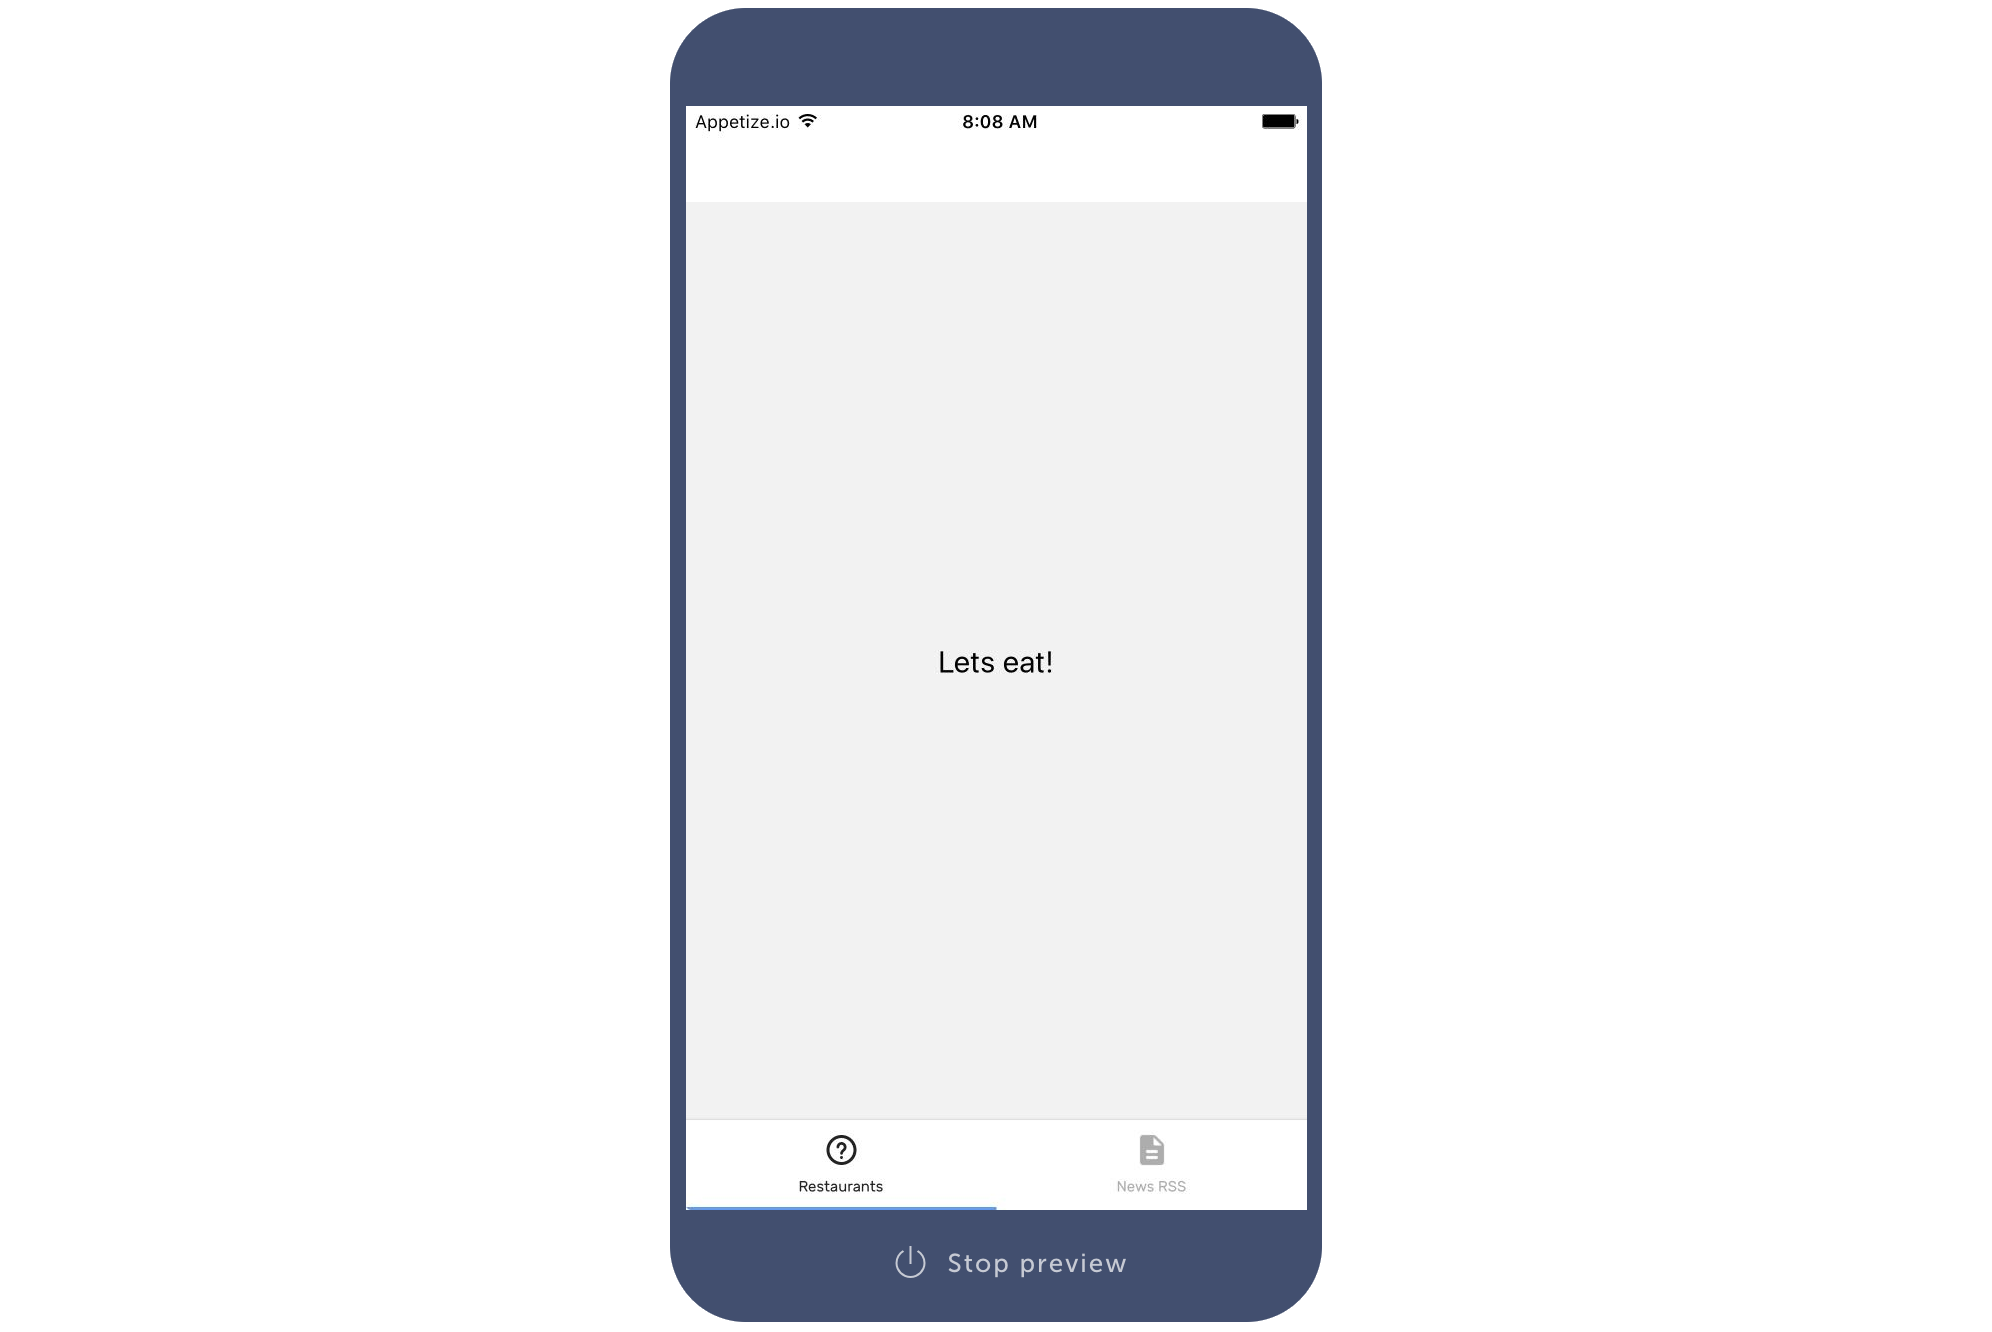
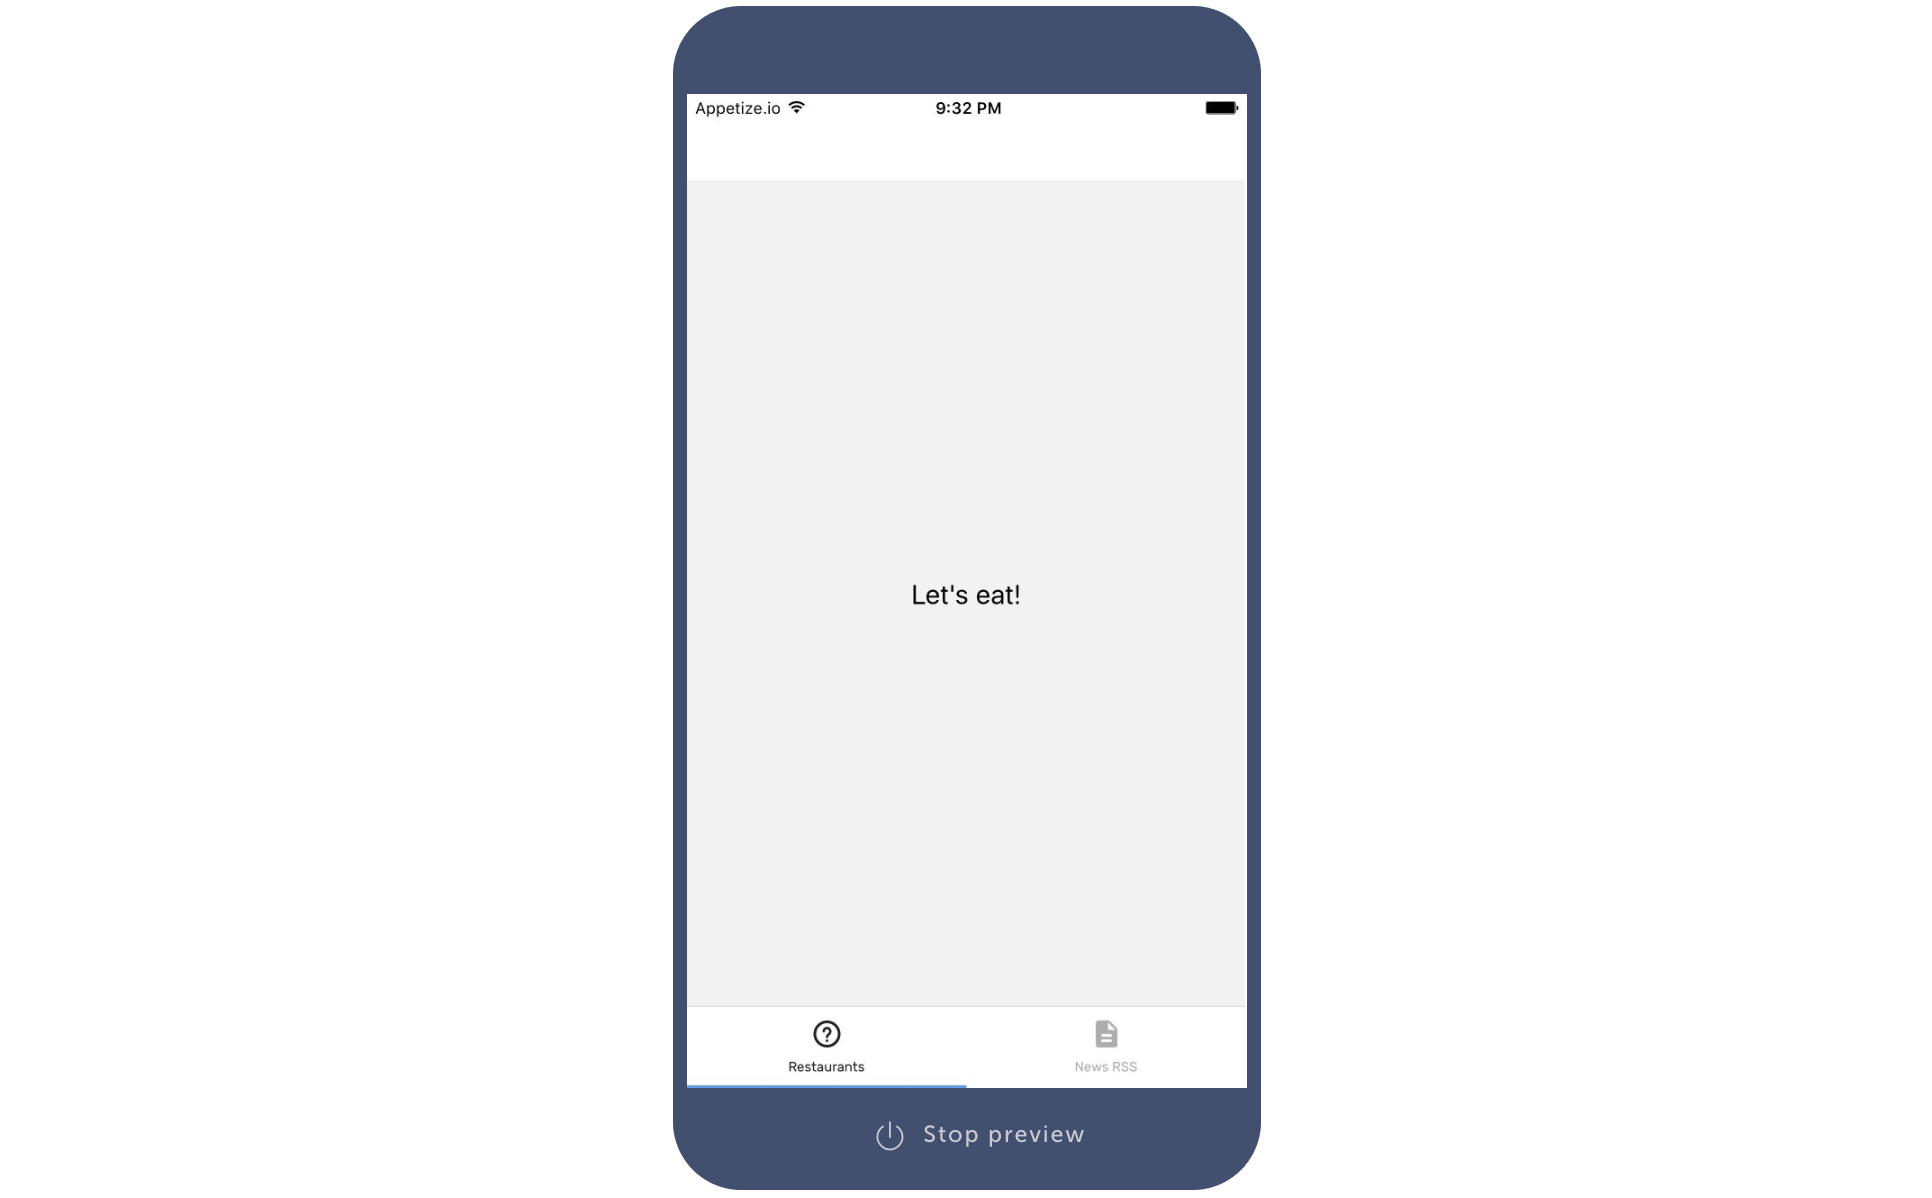
Fixed 'lets' errors. Updated screenshot.

diff --git a/docs/extensions/tutorials/_posts/1970-01-01-GettingStarted.md b/docs/extensions/tutorials/_posts/1970-01-01-GettingStarted.md
@@ -37,9 +37,9 @@ Before going through this tutorial, make sure you've installed the following:
 > #### Note
 > If the `npm install` commands fail because of _permission_ issues, you need to run them with `sudo`: `sudo npm install -g <package-name>`.
 
-If you haven't already, go to the [Builder]({{ site.shoutem.builderURL }}) and create an account. Once signed in, create a new `Blank app`. For this quick tutorial, we'll make a Restaurants and Food app, lets call it `Restaurants`. To rename your app, click on the `Blank app` text, delete it and type in `Restaurants`.
+If you haven't already, go to the [Builder]({{ site.shoutem.builderURL }}) and create an account. Once signed in, create a new `Blank app`. For this quick tutorial, we'll make a Restaurants and Food app, let's call it `Restaurants`. To rename your app, click on the `Blank app` text, delete it and type in `Restaurants`.
 
-Lets say we want to add an RSS feed screen to our app. To do that, click on the + button next to Screens and select the News RSS extension. Since the app is about Restaurants, to stick to the Food theme, lets use a food related News RSS feed:
+Let's say we want to add an RSS feed screen to our app. To do that, click on the + button next to Screens and select the News RSS extension. Since the app is about Restaurants, to stick to the Food theme, let's use a food related News RSS feed:
 http://foodengineeringmag.com/rss/topic/2639-top-100-food-beverage-companies
 
 After you add this screen, it should look something like this:
@@ -92,7 +92,7 @@ Initializing extension:
 Extension initialized!
 ```
 
-The `shoutem init` command bootstrapped the `{{ site.example.devName }}.restaurants` folder with extension files. Lets locate to the extension folder and add a screen with a shortcut (a pointer to the starting screen of an extension):
+The `shoutem init` command bootstrapped the `{{ site.example.devName }}.restaurants` folder with extension files. Let's locate to the extension folder and add a screen with a shortcut (a pointer to the starting screen of an extension):
 
 
 ```ShellSession
@@ -110,7 +110,7 @@ File `extension.json` was modified.
 
 This created a `List` screen in `app/screens/List.js` file. The reason we named it List is because in the [My First Extension]({{ site.url }}/docs/extensions/my-first-extension/introduction) tutorial series we'll turn this screen into a list of restaurants, but for now, a simpler screen will do. Any time you create a new screen it'll be a simple Hello World screen.
 
-To fit the app, lets change the `app/screens/List.js` file so it says `Lets eat!` instead of `Hello World!`:
+To fit the app, let's change the `app/screens/List.js` file so it says `Let's eat!` instead of `Hello World!`:
 
 ```JavaScript{5}
 #file: app/screens/List.js
@@ -118,7 +118,7 @@ export default class List extends Component {
   render() {
     return (
       <View style={styles.container}>
-        <Text style={styles.text}>Lets eat!</Text>
+        <Text style={styles.text}>Let's eat!</Text>
       </View>
     );
   }

diff --git a/docs/extensions/my-first-extension/_posts/1970-01-03-InitializingExtension.md b/docs/extensions/my-first-extension/_posts/1970-01-03-InitializingExtension.md
@@ -89,7 +89,7 @@ Extension installed.
 See it in the builder: {{ site.shoutem.builderURL }}/app/{{ site.example.appId }}
 ```
 
-Uploading the extension is self-explanatory, but lets elaborate on installing and uninstalling extensions. In the Builder, you can go to the `Extensions` tab to see which extensions are installed in your app. If you successfully installed your Restaurants extension from Getting Started, you should see it there under the `Custom` category.
+Uploading the extension is self-explanatory, but let's elaborate on installing and uninstalling extensions. In the Builder, you can go to the `Extensions` tab to see which extensions are installed in your app. If you successfully installed your Restaurants extension from Getting Started, you should see it there under the `Custom` category.
 
 <p class="image">
 <img src='{{ site.url }}/img/my-first-extension/extension-tab-extension.png'/>
@@ -97,4 +97,4 @@ Uploading the extension is self-explanatory, but lets elaborate on installing an
 
 Extensions are installed into specific apps, not all apps on your account. When running `shoutem install` inside a cloned app, the extension will be installed into that app, otherwise you will be prompted to select your app from a list.
 
-Now lets elaborate on [screens and shortcuts]({{ site.url }}/docs/extensions/my-first-extension/shortcut-and-screen).
+Now let's elaborate on [screens and shortcuts]({{ site.url }}/docs/extensions/my-first-extension/shortcut-and-screen).

diff --git a/docs/extensions/tutorials/_posts/1970-01-08-ModifiyingExtensions.md b/docs/extensions/tutorials/_posts/1970-01-08-ModifiyingExtensions.md
@@ -30,7 +30,7 @@ This is what it should look like (images and text vary with RSS feed):
 <img src='{{ site.url }}/img/tutorials/modifying-extensions/provided-layouts.png'/>
 </p>
 
-You do want list layout, but with large images in `Tiles`, such as the ones provided in the [UI toolkit]({{ site.url }}/docs/ui-toolkit/components/tiles). So lets modify News RSS extension directly to get those large images.
+You do want list layout, but with large images in `Tiles`, such as the ones provided in the [UI toolkit]({{ site.url }}/docs/ui-toolkit/components/tiles). So let's modify News RSS extension directly to get those large images.
 
 Download the [News RSS extension](https://github.com/shoutem/extensions/tree/master/shoutem-rss-news) from the repository and navigate to the extension's folder:
 
@@ -250,7 +250,7 @@ As the `app` folder from extension is what will be bundled in the app, you could
 
 We've implemented the new `render` function and deleted everything we didn't need to override from the `ListArticleView` component.
 
-Now, lets override the `renderRow` method in the screen:
+Now, let's override the `renderRow` method in the screen:
 
 ```javascript
 #file: app/screens/List.js

diff --git a/docs/extensions/tutorials/_posts/1970-01-02-WritingATheme.md b/docs/extensions/tutorials/_posts/1970-01-02-WritingATheme.md
@@ -126,7 +126,7 @@ Uploading `Restaurants` extension to Shoutem...
 Success!
 ```
 
-Since the Restaurants extension is already installed, so is your theme. However, it's not applied yet. Navigate to the `Styles` tab. Currently, the selected theme is `Rubicon`, clearly no match for your gorgeous new theme, so lets fix that. Click on the `Change theme` button. Here you can find every installed theme. Yours is also there! Select it and you'll see the showcase you set up for it earlier.
+Since the Restaurants extension is already installed, so is your theme. However, it's not applied yet. Navigate to the `Styles` tab. Currently, the selected theme is `Rubicon`, clearly no match for your gorgeous new theme, so let's fix that. Click on the `Change theme` button. Here you can find every installed theme. Yours is also there! Select it and you'll see the showcase you set up for it earlier.
 
 <p class="image">
 <img src='{{ site.url }}/img/tutorials/settings-theme/style-tab-themes-theme-change_theme-theme_showcase.png'/>

diff --git a/docs/extensions/my-first-extension/_posts/1970-01-04-CreatingShortcutAndScreen.md b/docs/extensions/my-first-extension/_posts/1970-01-04-CreatingShortcutAndScreen.md
@@ -117,7 +117,7 @@ Scanning folders for symlinks in /path/to/Restaurants_{{ site.example.appId }}/n
 ...
 ```
 
-Lets scan the QR code and see where we stopped in Getting Started.
+Let's scan the QR code and see where we stopped in Getting Started.
 
 <p class="image">
 <img src='{{ site.url }}/img/tutorials/getting-started/03-lets-eat.png'/>
@@ -134,7 +134,7 @@ export default class List extends Component {
   render() {
     return (
       <View style={styles.container}>
-        <Text style={styles.text}>Lets eat!</Text>
+        <Text style={styles.text}>Let's eat!</Text>
         <Text style={styles.text}>Can't do anything on an empty stomach!</Text>
       </View>
     );

diff --git a/docs/extensions/my-first-extension/_posts/1970-01-07-WorkingWithData.md b/docs/extensions/my-first-extension/_posts/1970-01-07-WorkingWithData.md
@@ -7,7 +7,7 @@ section: My first extension
 
 # Working with Data
 
-Lets fetch data from the Shoutem Cloud storage to the extension. First, remove the `app/assets` folder, we don't need it anymore. Also remove the `getRestaurants()` function from `List.js`.
+Let's fetch data from the Shoutem Cloud storage to the extension. First, remove the `app/assets` folder, we don't need it anymore. Also remove the `getRestaurants()` function from `List.js`.
 
 ```JavaScript{2-4}
 //remove this:

diff --git a/docs/extensions/my-first-extension/_posts/1970-01-06-UsingCloudStorage.md b/docs/extensions/my-first-extension/_posts/1970-01-06-UsingCloudStorage.md
@@ -151,7 +151,7 @@ Shoutem prepared a CMS settings page inside the [shoutem.cms](https://github.com
 }
 ```
 
-Lets upload the extension now, since we want to customize the web interface and the extension server side:
+Let's upload the extension now, since we want to customize the web interface and the extension server side:
 
 ```ShellSession
 $ shoutem push
